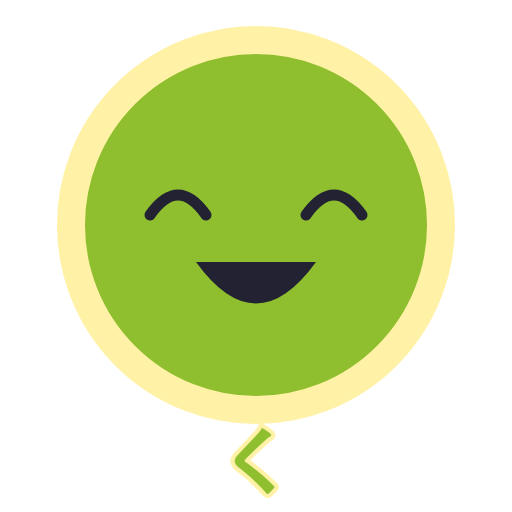
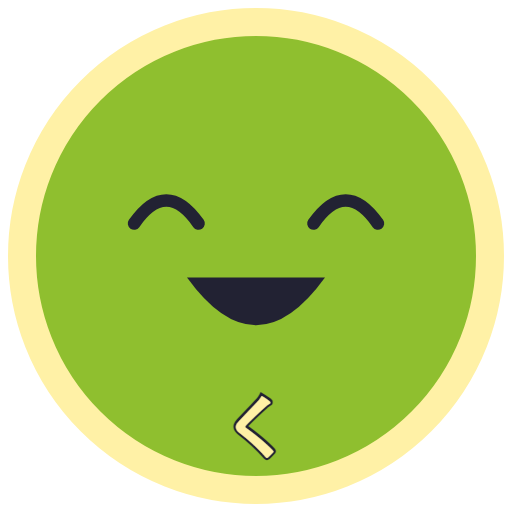
fix: 仮画像の円を中央に拡大し頭文字を円内へ移動

diff --git a/tools/placeholder-art/make-svg.js b/tools/placeholder-art/make-svg.js
@@ -15,8 +15,8 @@ const characters = ctx.Otc.Characters;
 
 const INK = '#222233';
 const CX = 256;
-const CY = 225;
-const R = 185;
+const CY = 256; // disc center; outer rim edge = R + 14 = 248 (inside the 256 inscribed circle)
+const R = 234;
 const EYE_Y = 205;
 const EX = 78; // eye offset from center x
 
@@ -48,7 +48,7 @@ const faces = {
     dot(CX - EX, 212, 15) + dot(CX + EX, 212, 15) + drop(CX - EX - 4, 235) +
     '<path d="M' + (CX - 42) + ' 315 Q' + CX + ' 285 ' + (CX + 42) + ' 315" ' + stroke(9) + '/>',
   panic: () => spiral(CX - EX, EYE_Y) + spiral(CX + EX, EYE_Y) +
-    '<ellipse cx="' + CX + '" cy="298" rx="26" ry="20" fill="' + INK + '"/>' + drop(CX + 128, 115),
+    '<ellipse cx="' + CX + '" cy="298" rx="26" ry="20" fill="' + INK + '"/>' + drop(CX + 110, 118),
   thinking: () => '<ellipse cx="' + (CX - EX) + '" cy="' + EYE_Y + '" rx="17" ry="22" fill="#fff" stroke="' + INK + '" stroke-width="5"/>' +
     '<ellipse cx="' + (CX + EX) + '" cy="' + EYE_Y + '" rx="17" ry="22" fill="#fff" stroke="' + INK + '" stroke-width="5"/>' +
     dot(CX - EX + 9, EYE_Y, 9) + dot(CX + EX + 9, EYE_Y, 9) +
@@ -60,8 +60,8 @@ function build(ch, emotion) {
   const initial = Array.from(ch.name)[0];
   return '<svg xmlns="http://www.w3.org/2000/svg" width="512" height="512" viewBox="0 0 512 512">' +
     '<circle cx="' + CX + '" cy="' + CY + '" r="' + R + '" fill="' + ch.colors.main + '" stroke="' + ch.colors.sub + '" stroke-width="28"/>' +
-    faces[emotion]() +
-    '<text x="256" y="490" text-anchor="middle" font-size="76" font-weight="bold" font-family="Yu Gothic, Meiryo, sans-serif" fill="' + ch.colors.main + '" stroke="' + ch.colors.sub + '" stroke-width="8" paint-order="stroke">' + initial + '</text>' +
+    '<g transform="translate(256 235) scale(1.15) translate(-256 -225)">' + faces[emotion]() + '</g>' +
+    '<text x="256" y="454" text-anchor="middle" font-size="72" font-weight="bold" font-family="Yu Gothic, Meiryo, sans-serif" fill="' + ch.colors.sub + '" stroke="' + INK + '" stroke-width="5" paint-order="stroke">' + initial + '</text>' +
     '</svg>\n';
 }
 
